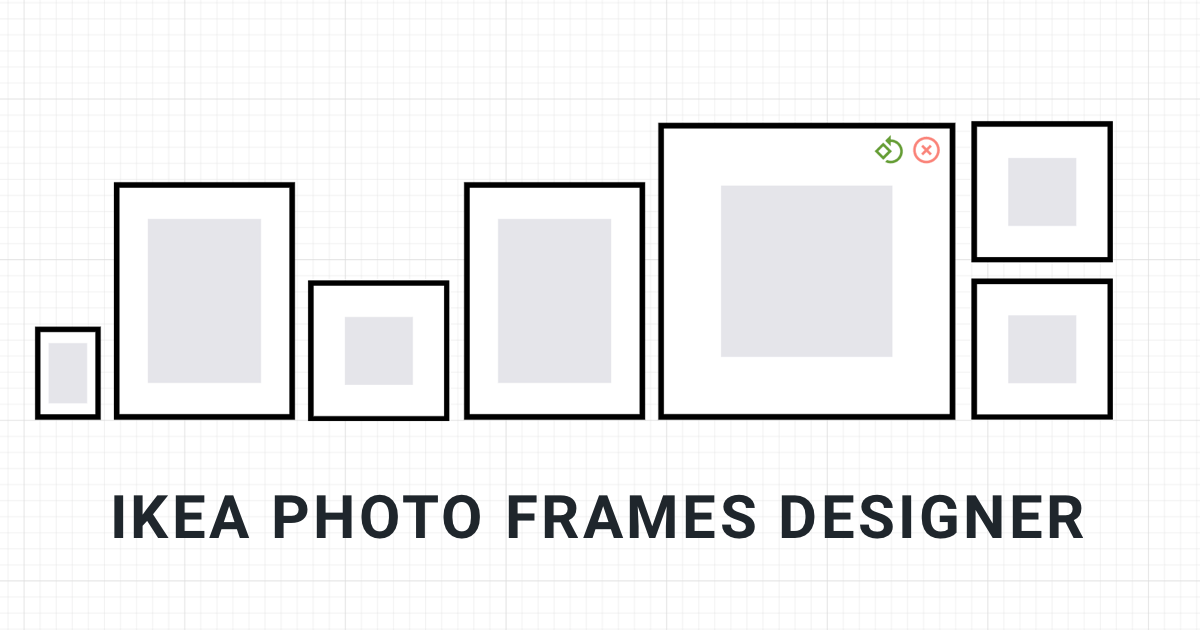
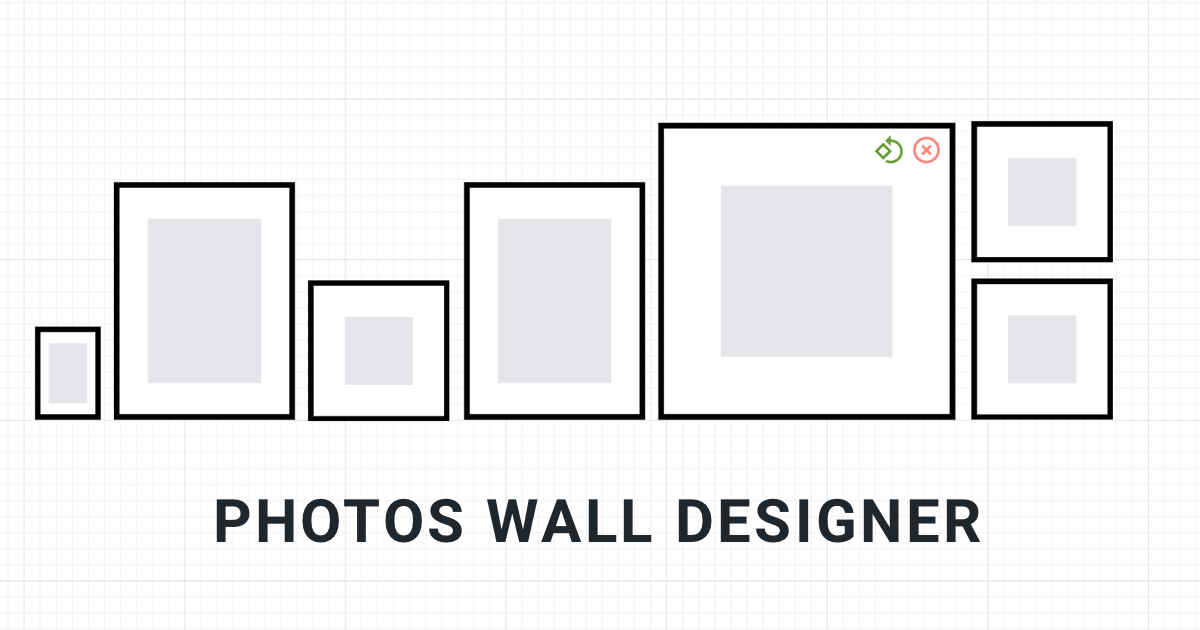
update images

Changed region(s): [[0.0925, 0.7841, 0.925, 0.8746]]

diff --git a/public/index.html b/public/index.html
@@ -17,7 +17,7 @@
     <meta property="og:type" content="website" />
     <meta
       property="og:url"
-      content="https://ikea-photo-frame.web.app/og-image.png"
+      content="https://photos-wall-design.web.app/og-image.png"
     />
     <meta property="og:title" content="IKEA Photo Frames Designer" />
     <meta
@@ -30,7 +30,7 @@
     <meta property="twitter:card" content="summary_large_image" />
     <meta
       property="twitter:url"
-      content="https://ikea-photo-frame.web.app/og-image.png"
+      content="https://photos-wall-design.web.app/og-image.png"
     />
     <meta property="twitter:title" content="IKEA Photo Frames Designer" />
     <meta
